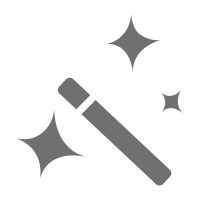
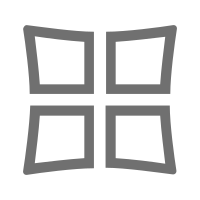
增加拼图界面

Changed region(s): [[0.09, 0.06, 0.93, 0.93]]

diff --git a/FilterCamera/Modules/MainCamera/Controller/COCameraViewController.m b/FilterCamera/Modules/MainCamera/Controller/COCameraViewController.m
@@ -14,6 +14,7 @@
 #import "COPhotoDisplayController.h"
 #import <Photos/Photos.h>
 #import <AssetsLibrary/AssetsLibrary.h>
+#import "COJigsawController.h"
 typedef void(^cameraPermit)(BOOL value);
 typedef NS_ENUM(NSInteger,CameraRatioType){
     CameraRatioType43,
@@ -367,13 +368,14 @@ typedef NS_ENUM(NSInteger,CameraRatioType){
         CGFloat y = kScreenHeight-kCameraViewBottomBGHeight/2-kFilterBtnWidth/2;
         make.left.mas_equalTo(@(x));
         make.top.mas_equalTo(@(y));
-        
     }];
+    
     //滤镜view
     _cameraFilterView = [[COCameraFilterView alloc]init];
     
     [[filterBtn rac_signalForControlEvents:UIControlEventTouchUpInside]subscribeNext:^(__kindof UIControl * _Nullable x) {
-        [wself.cameraFilterView toggleInView:wself.imageView];
+        COJigsawController *vc = [[COJigsawController alloc]init];
+        [wself.navigationController pushViewController:vc animated:YES];
     }];
     //拍照按钮
     UIButton *button = [[UIButton alloc]init];
@@ -417,6 +419,7 @@ typedef NS_ENUM(NSInteger,CameraRatioType){
         @strongify(self);
         [self switchToFilterWithIndex:[x integerValue]];
         [self.cameraFilterView scrollToIndex:[x integerValue]];
+        [wself.cameraFilterView toggleInView:wself.imageView];
     }];
     
     //滤镜选择
@@ -424,7 +427,6 @@ typedef NS_ENUM(NSInteger,CameraRatioType){
         [wself switchToFilterWithIndex:index];
         [wself.imageView scrollToIndex:index];
     };
-    
 }
 #pragma mark - 切换滤镜
 - (void)switchToFilterWithIndex:(NSInteger)index{

diff --git a/FilterCamera/Modules/MainCamera/Controller/COJigsawController.m b/FilterCamera/Modules/MainCamera/Controller/COJigsawController.m
@@ -1,0 +1,35 @@
+//
+//  COJigsawController.m
+//  FilterCamera
+//
+//  Created by wanyongjian on 2018/7/30.
+//  Copyright © 2018年 wan. All rights reserved.
+//
+
+#import "COJigsawController.h"
+
+@interface COJigsawController ()
+
+@end
+
+@implementation COJigsawController
+
+- (void)viewDidLoad {
+    [super viewDidLoad];
+    // Do any additional setup after loading the view.
+    self.view.backgroundColor = [UIColor whiteColor];
+}
+
+- (void)viewWillAppear:(BOOL)animated{
+    [super viewWillAppear:animated];
+    [self.navigationController setNavigationBarHidden:YES];
+}
+- (void)viewWillDisappear:(BOOL)animated{
+    [super viewWillDisappear:animated];
+    [self.navigationController setNavigationBarHidden:NO];
+}
+- (BOOL)prefersStatusBarHidden{
+    return YES;
+}
+
+@end

diff --git a/FilterCamera/Modules/MainCamera/Controller/COJigsawController.h b/FilterCamera/Modules/MainCamera/Controller/COJigsawController.h
@@ -1,0 +1,13 @@
+//
+//  COJigsawController.h
+//  FilterCamera
+//
+//  Created by wanyongjian on 2018/7/30.
+//  Copyright © 2018年 wan. All rights reserved.
+//
+
+#import <UIKit/UIKit.h>
+
+@interface COJigsawController : UIViewController
+
+@end

diff --git a/FilterCamera/Modules/MainCamera/View/filterView/COCameraFilterView.m b/FilterCamera/Modules/MainCamera/View/filterView/COCameraFilterView.m
@@ -66,9 +66,10 @@
 - (void)toggleInView:(UIView *)view{
     if(self.hidden){
         [self showInView:view];
-    }else{
-        [self hide];
     }
+//    else{
+//        [self hide];
+//    }
 }
 
 - (void)showInView:(UIView *)view{
